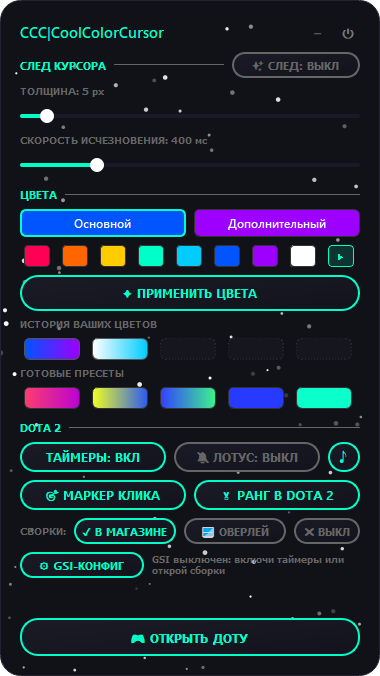
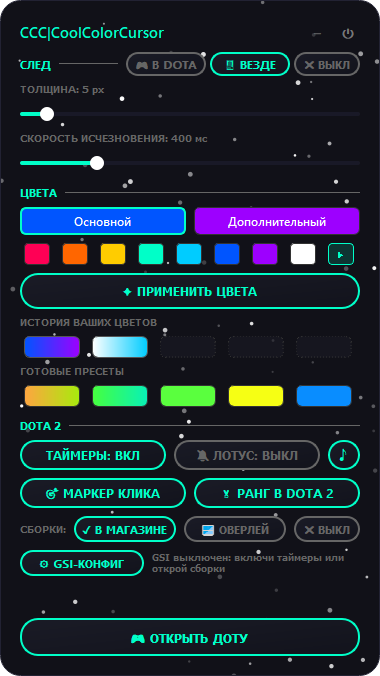
След: режимы «в Dota / везде / выкл», плавная кривая (120 снимков курсора в секунду, сплайн)

diff --git a/app/control_panel.py b/app/control_panel.py
@@ -8,7 +8,7 @@ import time
 from datetime import date
 from PyQt5.QtCore import QTimer, Qt, pyqtSignal
 from PyQt5.QtGui import QColor, QFont
-from PyQt5.QtWidgets import QApplication, QDialog, QFrame, QHBoxLayout, QLabel, QMenu, QPushButton, QSystemTrayIcon, QVBoxLayout, QWidget
+from PyQt5.QtWidgets import QActionGroup, QApplication, QDialog, QFrame, QHBoxLayout, QLabel, QMenu, QPushButton, QSystemTrayIcon, QVBoxLayout, QWidget
 from typing import Optional
 from app import dota_mod, ingame_marker, rank_mod, shop_mod
 from app.rank_window import RankDialog
@@ -109,6 +109,8 @@ class ControlPanel(QWidget):
         QTimer.singleShot(15000, self._refresh_shop_pack)
         self._restore_timers()
         self._restore_launcher()
+        if self.settings.trail_mode != "off":
+            self.set_trail_mode(self.settings.trail_mode, persist=False)
 
         # Один общий тик на всё: таймеры, колокольчик, герой для сборок, статус GSI
         self._tick_timer = QTimer(self)
@@ -174,10 +176,21 @@ class ControlPanel(QWidget):
 
         # ── След курсора: заголовок с переключателем, ползунки ──
         # След включается сам по «Открыть Доту»; здесь — выключить/включить вручную
-        self.btn_toggle = make_button(height=26, font=QFont(FONT_SYMBOL, 8, QFont.Bold))
-        self.btn_toggle.clicked.connect(self.toggle_trail)
-        self.btn_toggle.setMinimumWidth(128)
-        root.addLayout(self._section("СЛЕД КУРСОРА", self.btn_toggle))
+        # Режим следа: только в Dota 2, везде или выключен (таймеры и сборки при этом всё равно только в Dota)
+        modes_box = QWidget()
+        trail_modes = QHBoxLayout(modes_box)
+        trail_modes.setContentsMargins(0, 0, 0, 0)
+        trail_modes.setSpacing(4)
+        self.trail_buttons = {}
+        for mode, tip in (("dota", "След только в Dota 2"), ("all", "След везде: на рабочем столе и в любых окнах"),
+                          ("off", "След выключен")):
+            btn = make_button(height=24, font=QFont(FONT_SYMBOL, 8, QFont.Bold))
+            btn.setToolTip(tip)
+            btn.setMinimumWidth(66 if mode == "off" else 80)
+            btn.clicked.connect(lambda _=False, m=mode: self.set_trail_mode(m))
+            trail_modes.addWidget(btn)
+            self.trail_buttons[mode] = btn
+        root.addLayout(self._section("СЛЕД", modes_box))
 
         self.lbl_width = caption(f"ТОЛЩИНА: {s.max_width} px", size=9, color=DIM)
         root.addWidget(self.lbl_width)
@@ -355,8 +368,14 @@ class ControlPanel(QWidget):
             f" QMenu::item:selected {{ background-color: {ACCENT}; color: #000; }}")
 
         menu.addAction("Открыть настройки").triggered.connect(self.show_from_tray)
-        self.act_toggle = menu.addAction("Включить след")
-        self.act_toggle.triggered.connect(self.toggle_trail)
+        trail_group = QActionGroup(menu)
+        self.trail_actions = {}
+        for mode, text in (("dota", "След: только в Dota 2"), ("all", "След: везде"), ("off", "След: выключен")):
+            act = menu.addAction(text)
+            act.setCheckable(True)
+            act.triggered.connect(lambda _=False, m=mode: self.set_trail_mode(m))
+            trail_group.addAction(act)
+            self.trail_actions[mode] = act
 
         menu.addSeparator()
         self.act_builds = menu.addAction("Сборки на героя")
@@ -608,24 +627,31 @@ class ControlPanel(QWidget):
             self.overlay.update()
         self.schedule_save()
 
-    def toggle_trail(self):
-        if self.overlay is None:
-            log.info("Эффект включен")
-            s = self.settings
-            self.overlay = MouseTrailOverlay(s.fade_ms / 1000.0, s.max_width, *s.colors)
-            self.overlay.show()
-            self._raise_overlays()  # шлейф показался позже и мог лечь поверх таймеров и иконки
+    def set_trail_mode(self, mode: str, persist: bool = True):
+        """След: "dota" — рисуется только пока активна Dota 2, "all" — везде, "off" — выключен."""
+        if mode == "off":
+            if self.overlay is not None:
+                log.info("След выключен")
+                self.overlay.shutdown()
+                self.overlay = None
         else:
-            log.info("Эффект выключен")
-            self.overlay.shutdown()
-            self.overlay = None
+            if self.overlay is None:
+                s = self.settings
+                self.overlay = MouseTrailOverlay(s.fade_ms / 1000.0, s.max_width, *s.colors)
+                self.overlay.show()
+                self._raise_overlays()  # шлейф показался позже и мог лечь поверх таймеров и иконки
+            self.overlay.focus.only_in_dota = mode == "dota"
+            log.info("След: %s", "только в Dota 2" if mode == "dota" else "везде")
+        self.settings.trail_mode = mode
+        if persist:
+            self.schedule_save()
         self._refresh_toggle_ui()
 
     def on_dota_button(self):
         hwnd = dota_window()
         if not hwnd:
             if self.overlay is None:                 # с запуском игры след включается сам
-                self.toggle_trail()
+                self.set_trail_mode("dota")
             self.launch_dota()
         elif self._ask("ЗАКРЫТЬ ДОТУ", "Закрыть Dota 2?\n\nЕсли ты сейчас в матче — выйдешь из игры.", "Закрыть"):
             close_window(dota_window())              # пока висел вопрос, игру могли закрыть и так
@@ -659,13 +685,14 @@ class ControlPanel(QWidget):
             dialog.deleteLater()
 
     def _refresh_toggle_ui(self):
-        active = self.overlay is not None
-        if hasattr(self, "btn_toggle"):
-            self.btn_toggle.setText("✨ СЛЕД: ВКЛ" if active else "✨ СЛЕД: ВЫКЛ")
-            self.btn_toggle.setToolTip("Выключить след курсора" if active else "Включить след курсора")
-            self.btn_toggle.setStyleSheet(outline_button_style(ACCENT if active else DIM, radius=13))
-        if hasattr(self, "act_toggle"):
-            self.act_toggle.setText("Выключить след" if active else "Включить след")
+        current = self.settings.trail_mode
+        texts = {"dota": "🎮 В DOTA", "all": "🖥 ВЕЗДЕ", "off": "✖ ВЫКЛ"}
+        for mode, btn in getattr(self, "trail_buttons", {}).items():
+            on = mode == current
+            btn.setText(texts[mode])
+            btn.setStyleSheet(outline_button_style((DANGER if mode == "off" else ACCENT) if on else DIM, radius=12))
+        for mode, act in getattr(self, "trail_actions", {}).items():
+            act.setChecked(mode == current)
 
     # ── таймеры Dota 2 ──────────────────────────────────────────────────────
     def _restore_timers(self):

diff --git a/app/trail.py b/app/trail.py
@@ -171,8 +171,10 @@ def keep_on_top(widget: QWidget) -> None:
 class MouseTrailOverlay(QWidget):
     """Прозрачное «сквозное» окно на весь рабочий стол, в котором рисуется шлейф."""
 
-    MAX_POINTS = 400             # жёсткий лимит точек шлейфа
-    MAX_INTERP_STEPS = 80        # лимит промежуточных точек за один тик
+    MAX_POINTS = 400             # жёсткий лимит снятых положений курсора
+    MAX_INTERP_STEPS = 80        # лимит точек кривой между двумя соседними положениями
+    SAMPLE_HZ = 120              # как часто снимать положение курсора — не реже, чем 120 раз в секунду
+    CURVE_STEP = 2.0             # шаг точек кривой при рисовании, px
     FREEZE_GAP = 0.1             # пауза между тиками (с), после которой считаем, что система «подвисла»
     FULL_REPAINT = False         # True — перерисовывать весь экран (если вдруг появятся артефакты)
     KEEP_HEAD_WHEN_IDLE = False  # True — как в старой версии: «точка» остаётся под неподвижным курсором
@@ -184,7 +186,7 @@ class MouseTrailOverlay(QWidget):
         self.color1 = QColor(color1)
         self.color2 = QColor(color2)
 
-        self.points = deque()  # (QPointF, момент создания)
+        self.points = deque()  # снятые положения курсора: (QPointF, момент); кривая строится по ним при рисовании
         self._last_pos = None
         self._last_tick = time.monotonic()
         self._dirty = QRect()  # где шлейф был нарисован в прошлый раз
@@ -197,8 +199,8 @@ class MouseTrailOverlay(QWidget):
         self.setGeometry(self._desktop_rect())
 
         self.refresh_rate = self._detect_refresh_rate()
-        interval = max(1, int(1000 / self.refresh_rate))
-        self.step_distance = max(1.0, 3.0 * (60.0 / self.refresh_rate))
+        # На 60 Гц курсор за кадр успевает пролететь десятки пикселей — снимаем его чаще кадров
+        interval = max(1, int(1000 / max(self.refresh_rate, self.SAMPLE_HZ)))
         log.info("Определена герцовка: %s Гц. Интервал таймера: %s мс", self.refresh_rate, interval)
 
         self.timer = QTimer(self)
@@ -264,13 +266,6 @@ class MouseTrailOverlay(QWidget):
 
         last = self._last_pos
         moved = last is None or cur != last
-        if moved and last is not None:
-            dist = math.hypot(cur.x() - last.x(), cur.y() - last.y())
-            if dist > self.step_distance:
-                steps = min(int(dist / self.step_distance), self.MAX_INTERP_STEPS)
-                dx, dy = (cur.x() - last.x()) / steps, (cur.y() - last.y()) / steps
-                for i in range(1, steps):
-                    self.points.append((QPointF(last.x() + dx * i, last.y() + dy * i), now))
         if moved or self.KEEP_HEAD_WHEN_IDLE:
             self.points.append((cur, now))
         self._last_pos = cur
@@ -284,7 +279,7 @@ class MouseTrailOverlay(QWidget):
             return QRect()
         xs = [p.x() for p, _ in self.points]
         ys = [p.y() for p, _ in self.points]
-        margin = int(self.max_width) + 3
+        margin = int(self.max_width) + 12      # кривая может чуть выйти за снятые точки на поворотах
         left, top = int(min(xs)) - margin, int(min(ys)) - margin
         return QRect(left, top, int(max(xs)) + margin + 1 - left, int(max(ys)) + margin + 1 - top)
 
@@ -310,8 +305,33 @@ class MouseTrailOverlay(QWidget):
         now = time.monotonic()
         self._paint_trail(p, now)
 
+    def _curve(self):
+        """Плавная кривая через снятые положения курсора (сплайн Катмулла–Рома) с моментом времени в каждой
+        точке: так и форма без углов, и цвет с толщиной угасают плавно, а не ступеньками по кадрам."""
+        raw = list(self.points)
+        n = len(raw)
+        out = []
+        for i in range(n - 1):
+            p1, t1 = raw[i]
+            p2, t2 = raw[i + 1]
+            p0 = raw[i - 1][0] if i > 0 else p1
+            p3 = raw[i + 2][0] if i + 2 < n else p2
+            steps = max(1, min(self.MAX_INTERP_STEPS,
+                               int(math.hypot(p2.x() - p1.x(), p2.y() - p1.y()) / self.CURVE_STEP)))
+            for k in range(steps):
+                u = k / steps
+                u2, u3 = u * u, u * u * u
+                x = 0.5 * (2 * p1.x() + (p2.x() - p0.x()) * u + (2 * p0.x() - 5 * p1.x() + 4 * p2.x() - p3.x()) * u2
+                           + (3 * p1.x() - p0.x() - 3 * p2.x() + p3.x()) * u3)
+                y = 0.5 * (2 * p1.y() + (p2.y() - p0.y()) * u + (2 * p0.y() - 5 * p1.y() + 4 * p2.y() - p3.y()) * u2
+                           + (3 * p1.y() - p0.y() - 3 * p2.y() + p3.y()) * u3)
+                out.append((QPointF(x, y), t1 + (t2 - t1) * u))
+        if raw:
+            out.append(raw[-1])
+        return out
+
     def _paint_trail(self, p: QPainter, now: float) -> None:
-        points = self.points
+        points = self._curve()
         if len(points) < 2:
             return
         r1, g1, b1 = self.color1.red(), self.color1.green(), self.color1.blue()

diff --git a/app/config.py b/app/config.py
@@ -181,6 +181,7 @@ class Settings:
         self.lotus_alert = 5         # за сколько секунд до лотуса звенеть, 0..30 (0 — в момент появления)
         self.hud_hold_alt = True     # True — HUD виден только пока зажат Alt (поведение по умолчанию)
         self.only_in_dota = True     # эффект только пока в фокусе Dota 2
+        self.trail_mode = "dota"     # след курсора: "dota" — только в Dota 2, "all" — везде, "off" — выключен
         self.ingame_marker = False       # свой маркер установлен в игру подменой файлов (свой пак в dota_russian)
         self.ingame_petals = "#ff0055"   # цвет лепестков маркера в игре
         self.ingame_rest = "#00ccff"     # цвет остального (центр, свечение, кольца)
@@ -229,6 +230,8 @@ class Settings:
         s.lotus_alert = _clamp(raw.get("lotus_alert", 5), 0, 30, 5)
         s.hud_hold_alt = bool(raw.get("hud_hold_alt", True))
         s.only_in_dota = bool(raw.get("only_in_dota", True))
+        mode = raw.get("trail_mode", "dota")
+        s.trail_mode = mode if mode in ("dota", "all", "off") else "dota"
         s.ingame_marker = bool(raw.get("ingame_marker", False))
         s.ingame_petals = str(raw.get("ingame_petals", s.ingame_petals))
         s.ingame_rest = str(raw.get("ingame_rest", s.ingame_rest))
@@ -279,6 +282,7 @@ class Settings:
             "lotus_alert": self.lotus_alert,
             "hud_hold_alt": self.hud_hold_alt,
             "only_in_dota": self.only_in_dota,
+            "trail_mode": self.trail_mode,
             "ingame_marker": self.ingame_marker,
             "ingame_petals": self.ingame_petals,
             "ingame_rest": self.ingame_rest,

diff --git a/NOTES.md b/NOTES.md
@@ -56,6 +56,7 @@ VRF (Source2Viewer CLI) — декомпиляция `.vpcf_c/.vtex_c/.vxml_c/.v
 - Кез: смена иконок по стойке (читать способность слота героя в магазине).
 - Возможно, публикация паковой части на dota2modmanager.com.
 ## Журнал изменений
+- 2026-10-30: след — три режима (`trail_mode`: только в Dota 2 / везде / выкл, кнопки в заголовке «След» и пункты трея, режим восстанавливается при запуске; таймеры и сборки по-прежнему только в Dota). Гладкость: курсор снимается не реже 120 раз/с (`SAMPLE_HZ`), кривая строится сплайном Катмулла–Рома при рисовании (`_curve`), время в каждой точке кривой — угасание без ступенек по кадрам.
 - 2026-10-29: свои картинки рангов подгоняются сами (`rank_mod._encode`): прозрачные поля обрезаются, медаль вписывается в область родной медали; одна звезда расставляется по местам родных звёзд во всех pip1–pip5 (места звёзд — k-средних по x). Скрины для модерации — `docs/screenshots/`.
 - 2026-10-29: exe для релизов собирает GitHub Actions (`release.yml`) — просьба модерации, чтобы сборку можно было сверить с исходниками.
 - 2026-10-28: третья кнопка «ВЫКЛ» в строке «Сборки»: убирает пак магазина и снимает автооткрытие оверлейных сборок (`set_builds_mode("off")` = режим overlay + `builds_auto=False`; галочка трея синхронизирована).

diff --git a/README.md b/README.md
@@ -10,6 +10,8 @@
 
 **Шлейф курсора**
 * Градиент из двух цветов, круг цветов, готовые палитры и история любимых цветов.
+* Три режима: только в Dota 2, везде (рабочий стол, любые окна) или выключен — кнопки на главном окне и в меню трея.
+* Плавная линия даже на 60 Гц: курсор снимается не реже 120 раз в секунду, след строится кривой без углов и угасает без ступенек.
 * Толщина и скорость исчезновения меняются на лету, частота подстраивается под монитор (60/144/240 Гц и выше).
 * Оверлей пропускает клики насквозь и не мешает игре.
 
